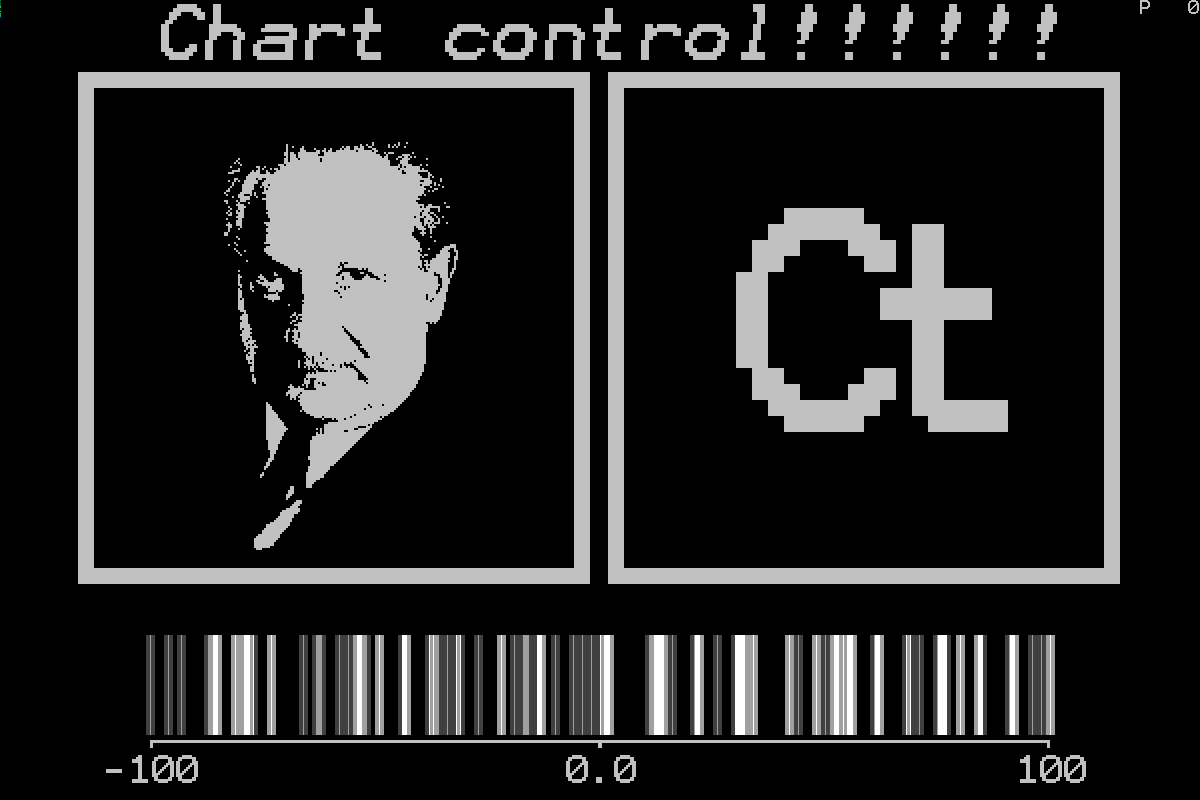
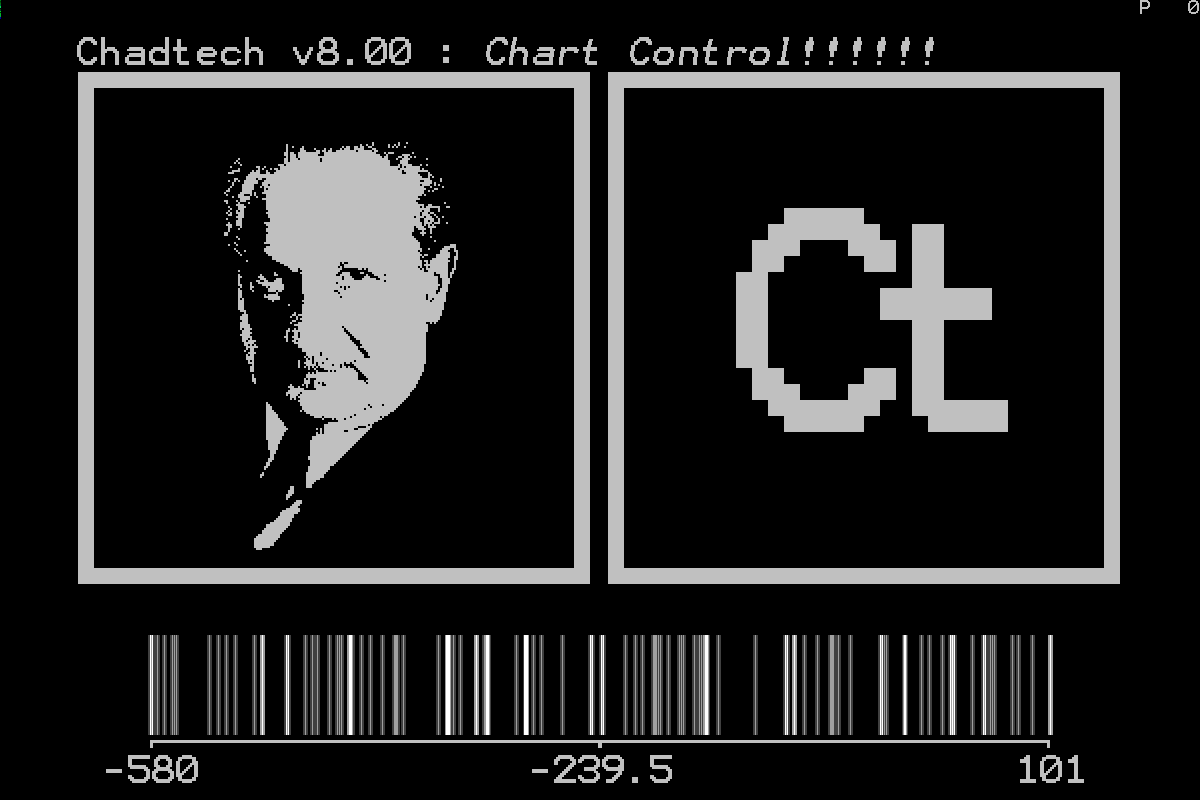
made things clean

Changed region(s): [[0.0925, 0.7812, 0.925, 1.0], [0.37, 0.0, 0.8942, 0.0938], [0.0617, 0.0, 0.3392, 0.0938]]

diff --git a/chartcontrol.py b/chartcontrol.py
@@ -4,6 +4,7 @@ import ImageFont, ImageDraw
 import collections
 from collections import Counter
 import math
+import random
 
 def makeAChart(data):
 	CommandPrompt12x16 = ImageFont.truetype('Command-Prompt-12x16.ttf',32)
@@ -20,10 +21,11 @@ def makeAChart(data):
 	overlaps=0
 	previous=0
 	for point in bands:
-		if math.fabs(point-previous)<22:
+		if (point-previous)<6:
 			overlaps+=1
 			previous=0
 			previous+=point
+	print 'OVERLAPS', overlaps
 	singleGradient = int(192. / overlaps)
 	chart=Image.new('RGB',(1200,800),(0,0,0))
 	for point in bands:
